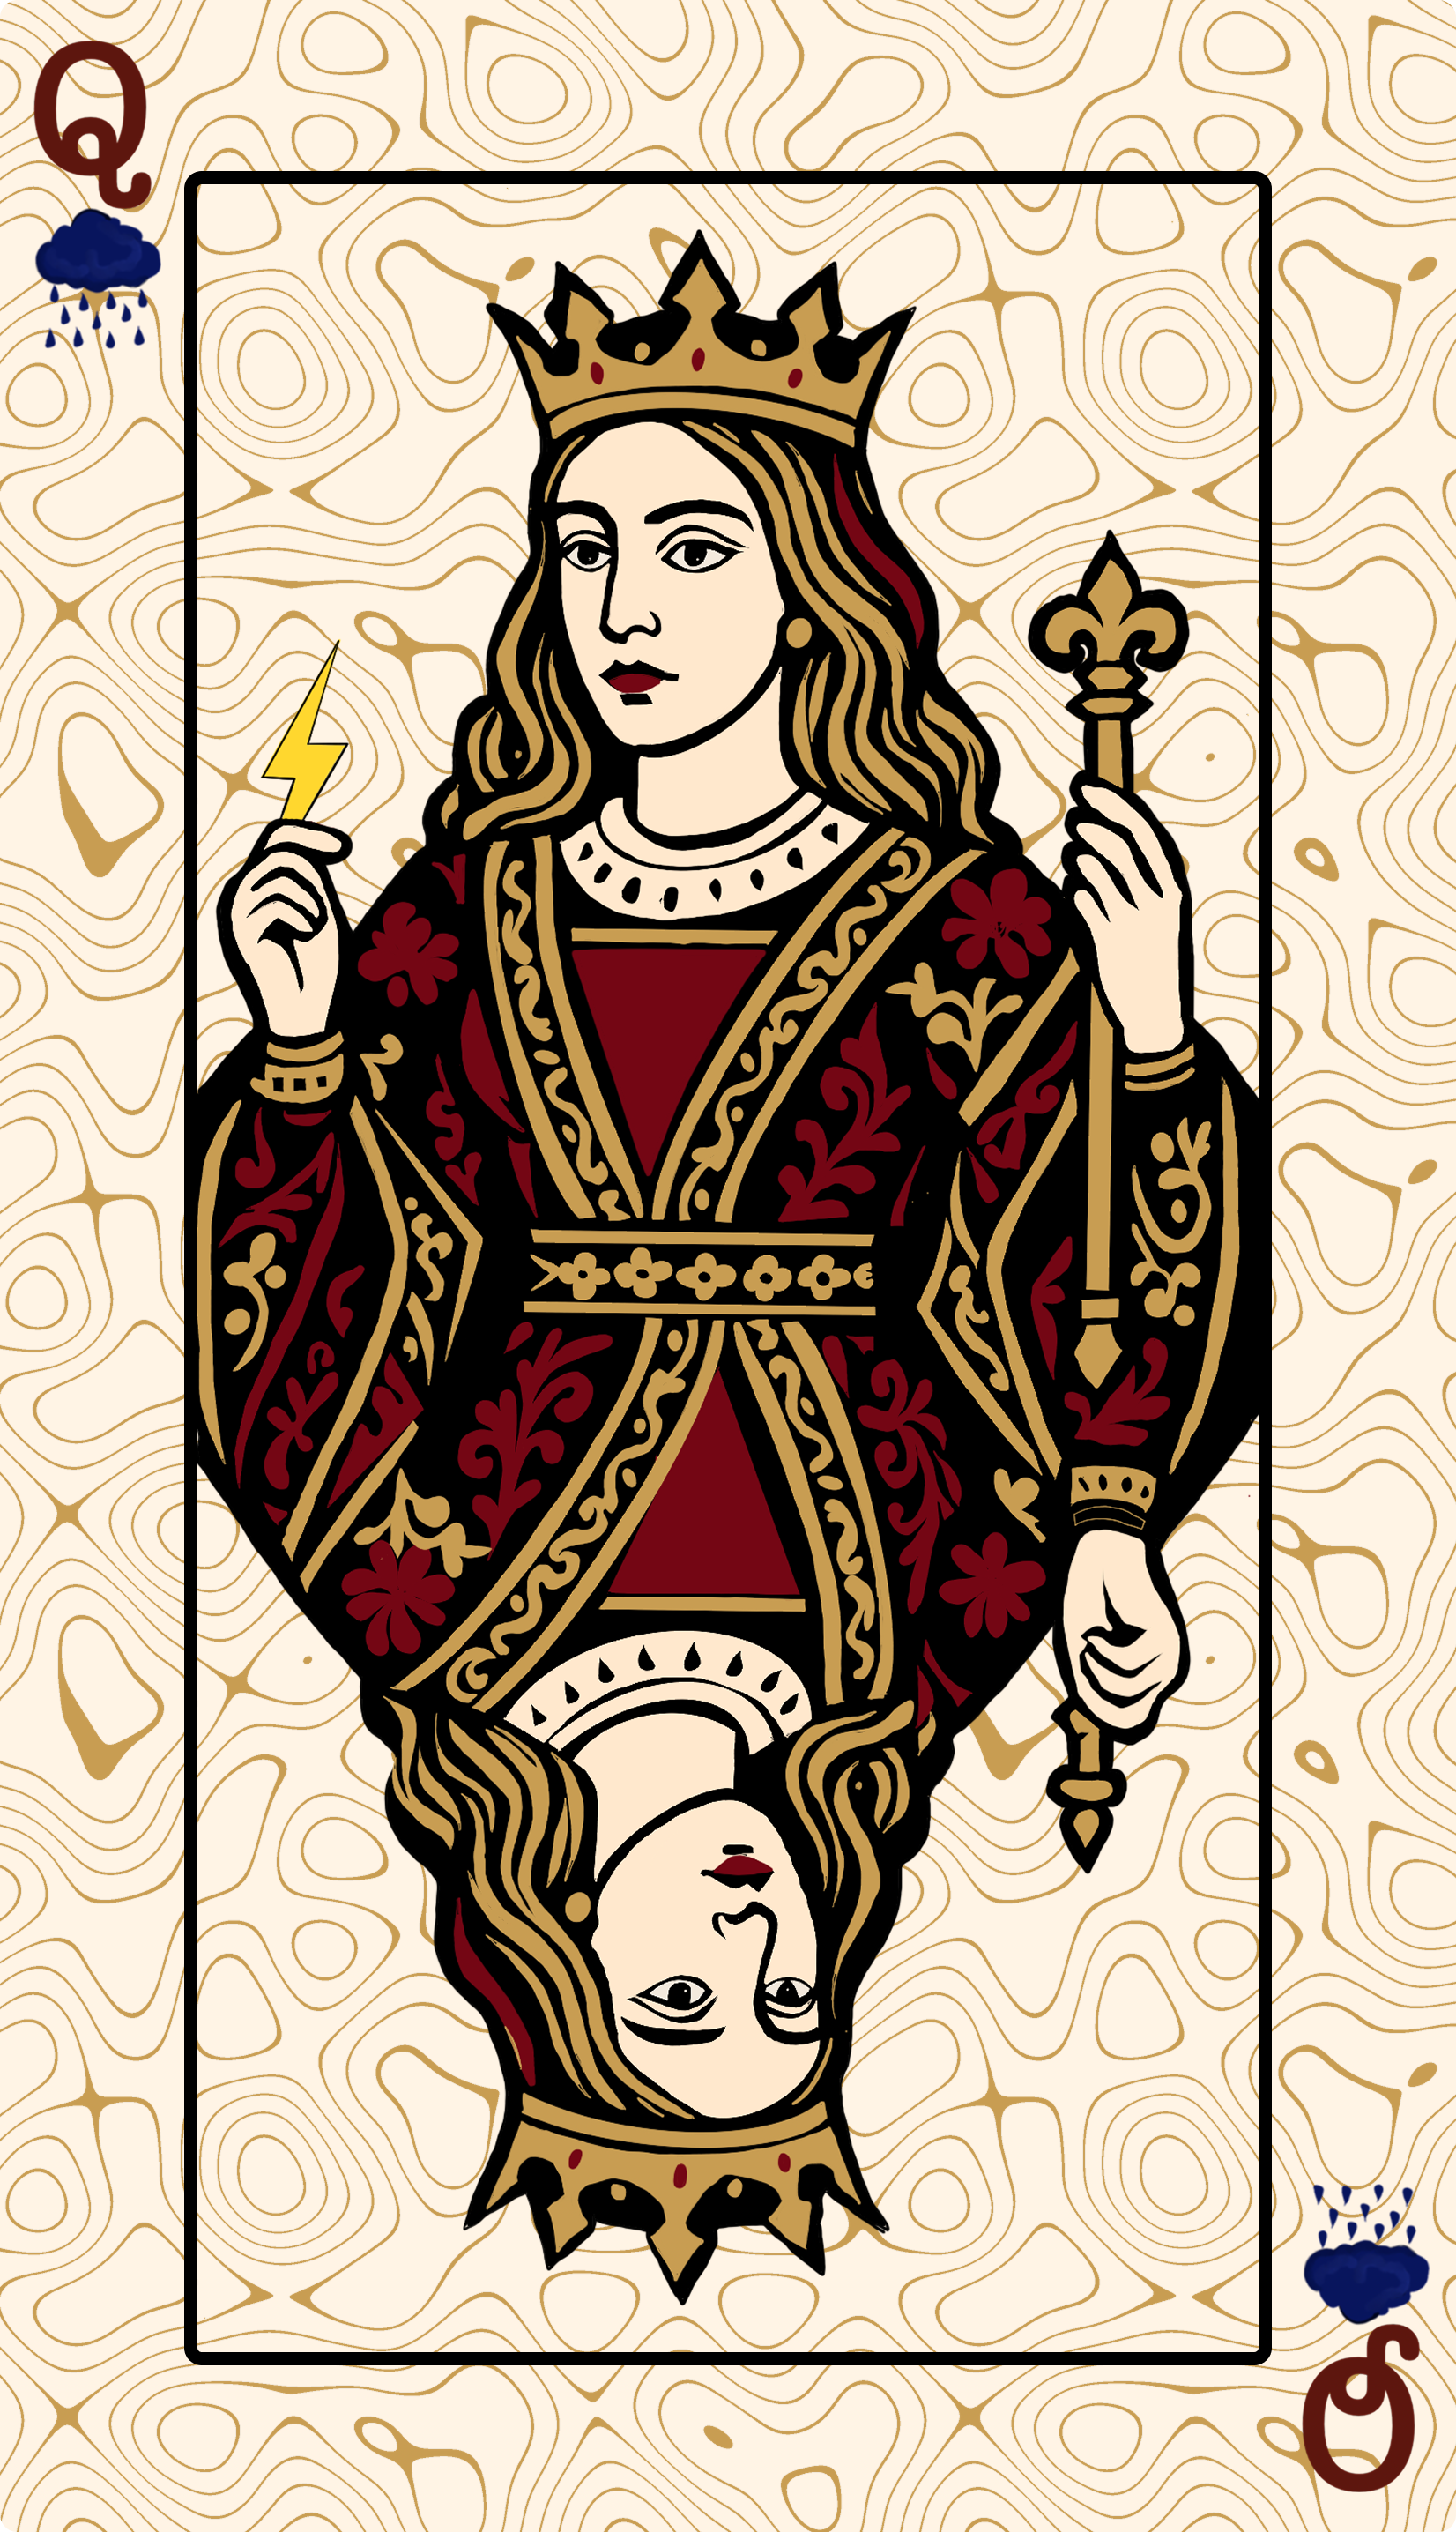
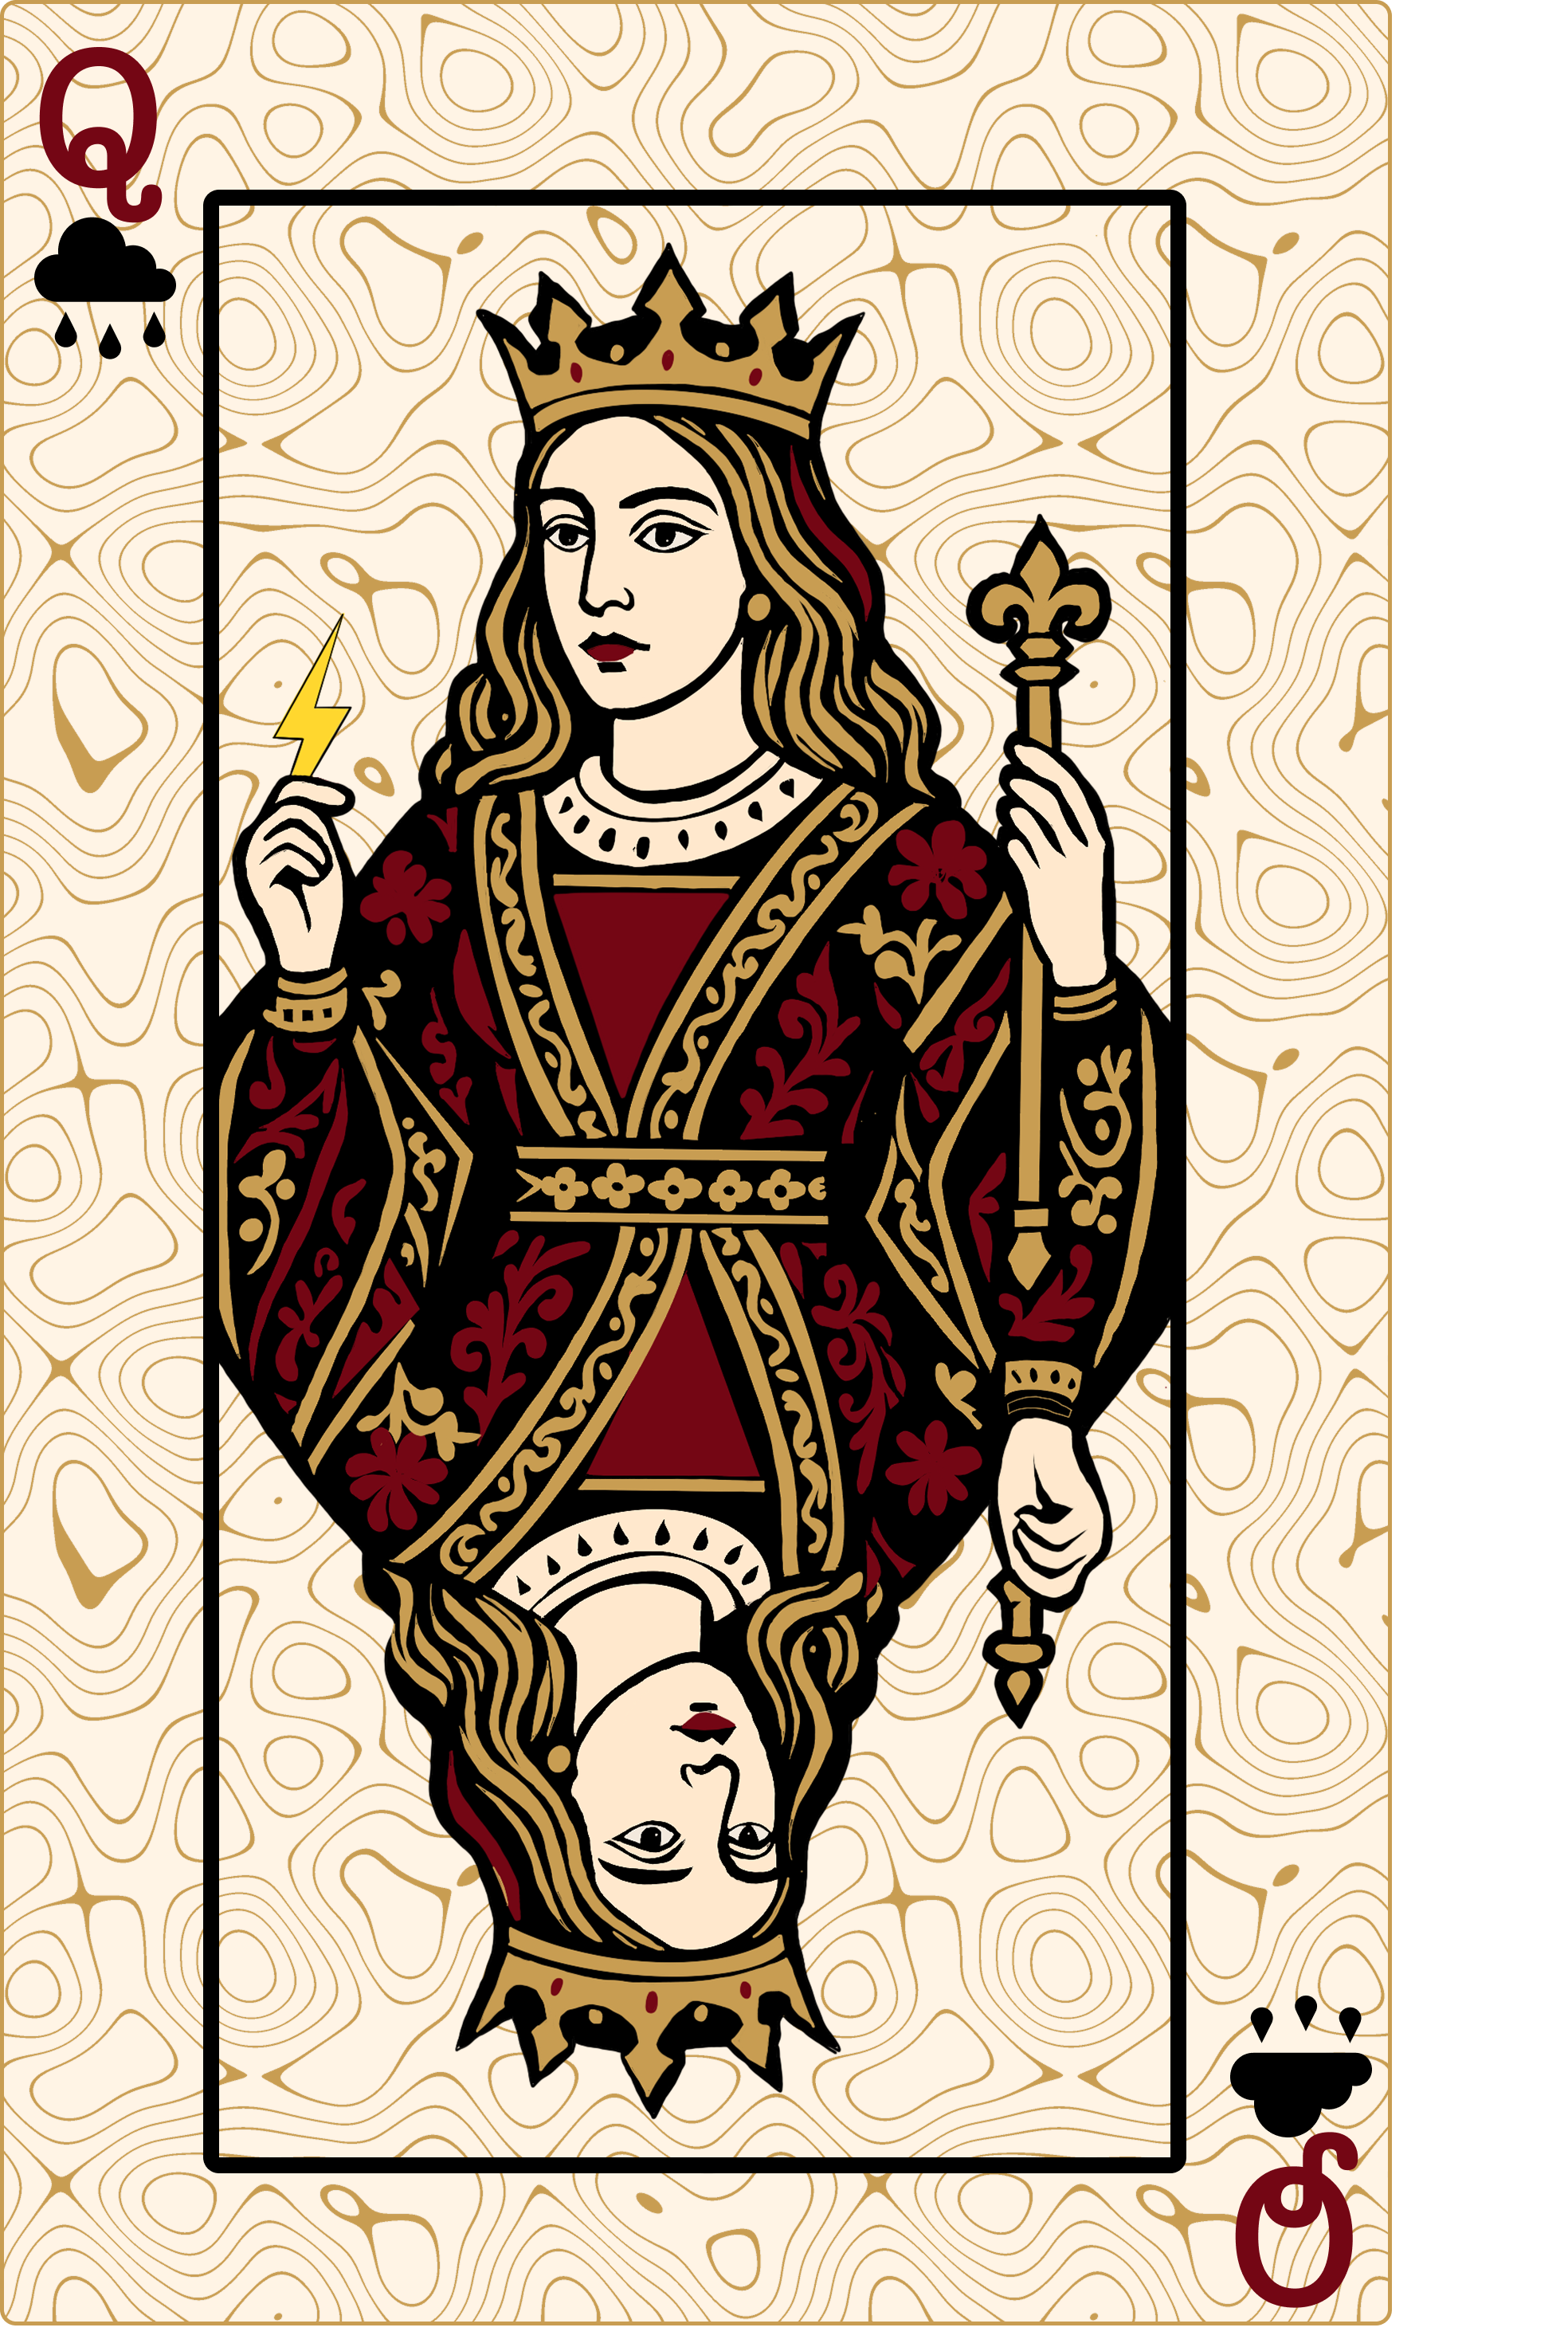
Polish ending animation and home page pip
- Glow fades in after 360° flip rather than appearing on card reveal
- Remove asymmetric box-shadow from preserve-3d spinner; use uniform gold drop-shadow only
- Halve glow blur radii for subtler effect
- Bring ending card down 20px (y: 40)
- Move CTA button 20px left and 15px up
- Update q-pip to new asset (public/q-pip.png); move pip 6px up
- Two-tone colour split on side panels (accent/card)

diff --git a/src/components/PlayingCard.tsx b/src/components/PlayingCard.tsx
@@ -38,6 +38,7 @@ export default function PlayingCard() {
   const qPipRef           = useRef<HTMLDivElement>(null)
   const endingQueenRef    = useRef<HTMLDivElement>(null)
   const endingSpinnerRef  = useRef<HTMLDivElement>(null)
+  const endingQueenImgRef = useRef<HTMLImageElement>(null)
   const ctaRef            = useRef<HTMLDivElement>(null)
   const hasEndingFiredRef = useRef(false)
 
@@ -54,7 +55,7 @@ export default function PlayingCard() {
     // Phase 2 — reveal ending queen rising; rests 20px from top so float never hides behind nav
     tl.to(
       endingQueenRef.current,
-      { opacity: 1, y: 20, duration: 0.8, ease: 'power2.out' },
+      { opacity: 1, y: 40, duration: 0.8, ease: 'power2.out' },
       '-=0.25'
     )
 
@@ -70,6 +71,13 @@ export default function PlayingCard() {
       },
       '+=0.1'
     )
+
+    // Phase 3.5 — glow fades in after flip completes
+    tl.to(endingQueenImgRef.current, {
+      filter: 'drop-shadow(0 0 8px rgba(212,175,55,0.7)) drop-shadow(0 0 24px rgba(212,175,55,0.4)) drop-shadow(0 0 48px rgba(212,175,55,0.2))',
+      duration: 0.8,
+      ease: 'power2.out',
+    })
 
     // Phase 4 — slide CTA up and fade in
     tl.to(
@@ -144,6 +152,9 @@ export default function PlayingCard() {
     // Set initial states — queen hidden 96px below its top-anchored resting position
     gsap.set(endingQueenRef.current, { opacity: 0, y: 96 })
     gsap.set(ctaRef.current, { opacity: 0, y: 32 })
+    gsap.set(endingQueenImgRef.current, {
+      filter: 'drop-shadow(0 0 0px rgba(212,175,55,0)) drop-shadow(0 0 0px rgba(212,175,55,0)) drop-shadow(0 0 0px rgba(212,175,55,0))',
+    })
 
     ScrollTrigger.scrollerProxy(el, {
       scrollTop(value) {
@@ -203,9 +214,9 @@ export default function PlayingCard() {
     <div ref={wrapperRef} className="col-start-4 col-span-6 flex flex-col bg-card rounded-t-3xl relative overflow-hidden">
 
       {/* Q-pip — wrapped for GSAP fade */}
-      <div ref={qPipRef} className="absolute top-4 left-[13px] z-10">
+      <div ref={qPipRef} className="absolute top-[10px] left-[13px] z-10">
         <Image
-          src="/assets/q-pip.png"
+          src="/q-pip.png"
           alt="Q pip"
           width={48}
           height={48}
@@ -249,42 +260,14 @@ export default function PlayingCard() {
         <div
           ref={endingSpinnerRef}
           className="relative"
-          style={{
-            transformStyle: 'preserve-3d',
-            boxShadow: [
-              '0 8px 24px rgba(212,175,55,0.25)',
-              '0 24px 60px rgba(212,175,55,0.15)',
-              '0 60px 120px rgba(0,0,0,0.8)',
-            ].join(', '),
-          }}
+          style={{ transformStyle: 'preserve-3d' }}
         >
           <img
+            ref={endingQueenImgRef}
             src="/assets/queens/ending queen.png"
             alt="Ending queen"
             className="w-full h-auto block"
-            style={{
-              borderRadius: '12px',
-              filter: [
-                'drop-shadow(0 4px 12px rgba(212,175,55,0.5))',
-                'drop-shadow(0 16px 40px rgba(212,175,55,0.25))',
-                'drop-shadow(0 40px 80px rgba(0,0,0,0.9))',
-              ].join(' '),
-            }}
-          />
-
-          {/* Card edge highlights + directional light sheen */}
-          <div
-            className="absolute inset-0 pointer-events-none"
-            style={{
-              borderRadius: '12px',
-              boxShadow: [
-                'inset 0 1px 0 rgba(255,255,255,0.24)',
-                'inset 0 -1px 0 rgba(0,0,0,0.28)',
-                'inset 1px 0 0 rgba(255,255,255,0.14)',
-                'inset -1px 0 0 rgba(0,0,0,0.14)',
-              ].join(', '),
-              background: 'linear-gradient(148deg, rgba(255,255,255,0.13) 0%, rgba(255,255,255,0.03) 30%, transparent 52%, rgba(0,0,0,0.03) 72%, rgba(0,0,0,0.16) 100%)',
-            }}
+            style={{ borderRadius: '12px' }}
           />
         </div>
       </div>
@@ -292,9 +275,9 @@ export default function PlayingCard() {
       {/* ── CTA overlay ── */}
       <div
         ref={ctaRef}
-        className="fixed inset-x-0 top-[calc(52%-50px)] z-50 flex justify-center pointer-events-none"
+        className="fixed inset-x-0 top-[calc(52%-65px)] z-50 flex justify-center pointer-events-none"
       >
-        <Link href="/case-study" className="group flex items-center gap-2 bg-black/90 backdrop-blur-sm text-white font-body text-[13px] font-semibold uppercase tracking-[0.1em] px-6 py-3 rounded-full hover:bg-[#740614] transition-colors duration-200">
+        <Link href="/case-study" style={{ position: 'relative', left: '-20px' }} className="group flex items-center gap-2 bg-black/90 backdrop-blur-sm text-white font-body text-[13px] font-semibold uppercase tracking-[0.1em] px-6 py-3 rounded-full hover:bg-[#740614] transition-colors duration-200">
           Read Case Study
           <svg
             width="13"

diff --git a/src/app/page.tsx b/src/app/page.tsx
@@ -4,16 +4,18 @@ export default function Home() {
   return (
     <>
       <div className="col-start-1 col-span-3 flex items-center justify-center px-4 overflow-hidden">
-        <p className="font-display uppercase text-white text-[clamp(1rem,2.2vw,2.2rem)] leading-tight text-center">
-          Varsha<br />ranee
+        <p className="font-display uppercase text-[clamp(1.625rem,calc(2.2vw+10px),2.825rem)] leading-tight text-center">
+          <span className="text-accent">Varsha</span><br />
+          <span className="text-card">ranee</span>
         </p>
       </div>
 
       <PlayingCard />
 
       <div className="col-start-10 col-span-3 flex items-center justify-center px-4 overflow-hidden">
-        <p className="font-display uppercase text-white text-[clamp(1rem,2.2vw,2.2rem)] leading-tight text-center">
-          Brand<br />Designer
+        <p className="font-display uppercase text-[clamp(1.625rem,calc(2.2vw+10px),2.825rem)] leading-tight text-center">
+          <span className="text-card">Brand</span><br />
+          <span className="text-accent">Designer</span>
         </p>
       </div>
     </>